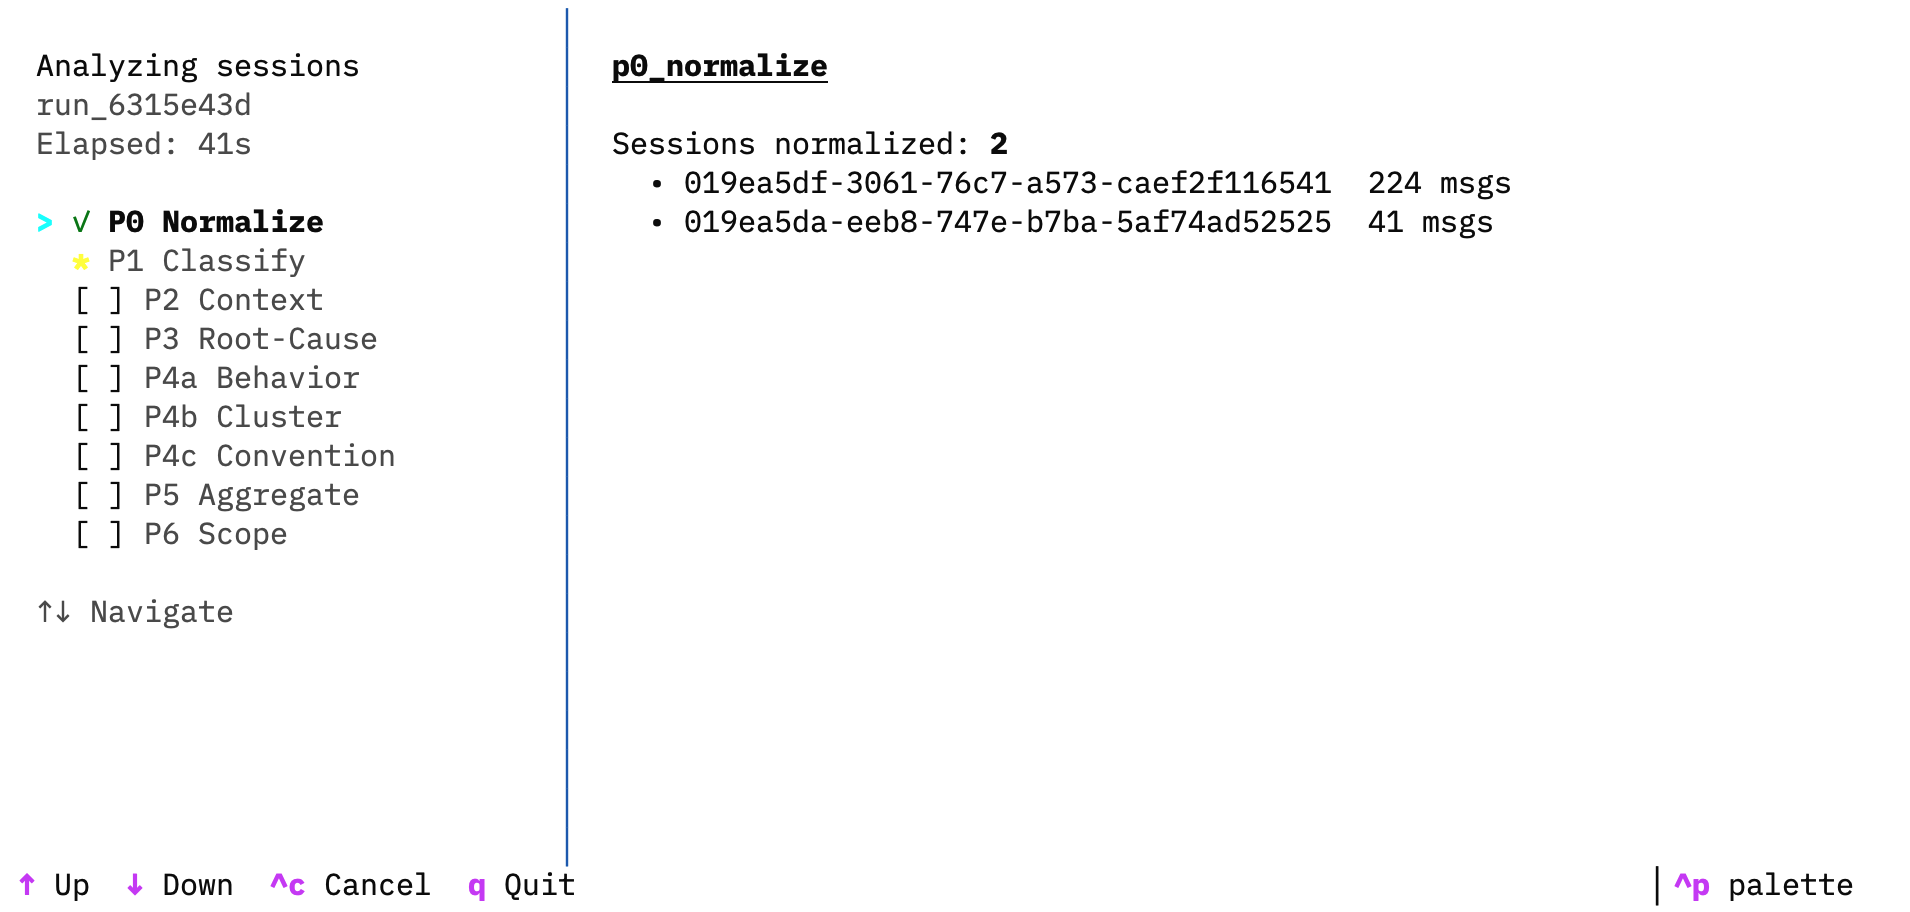
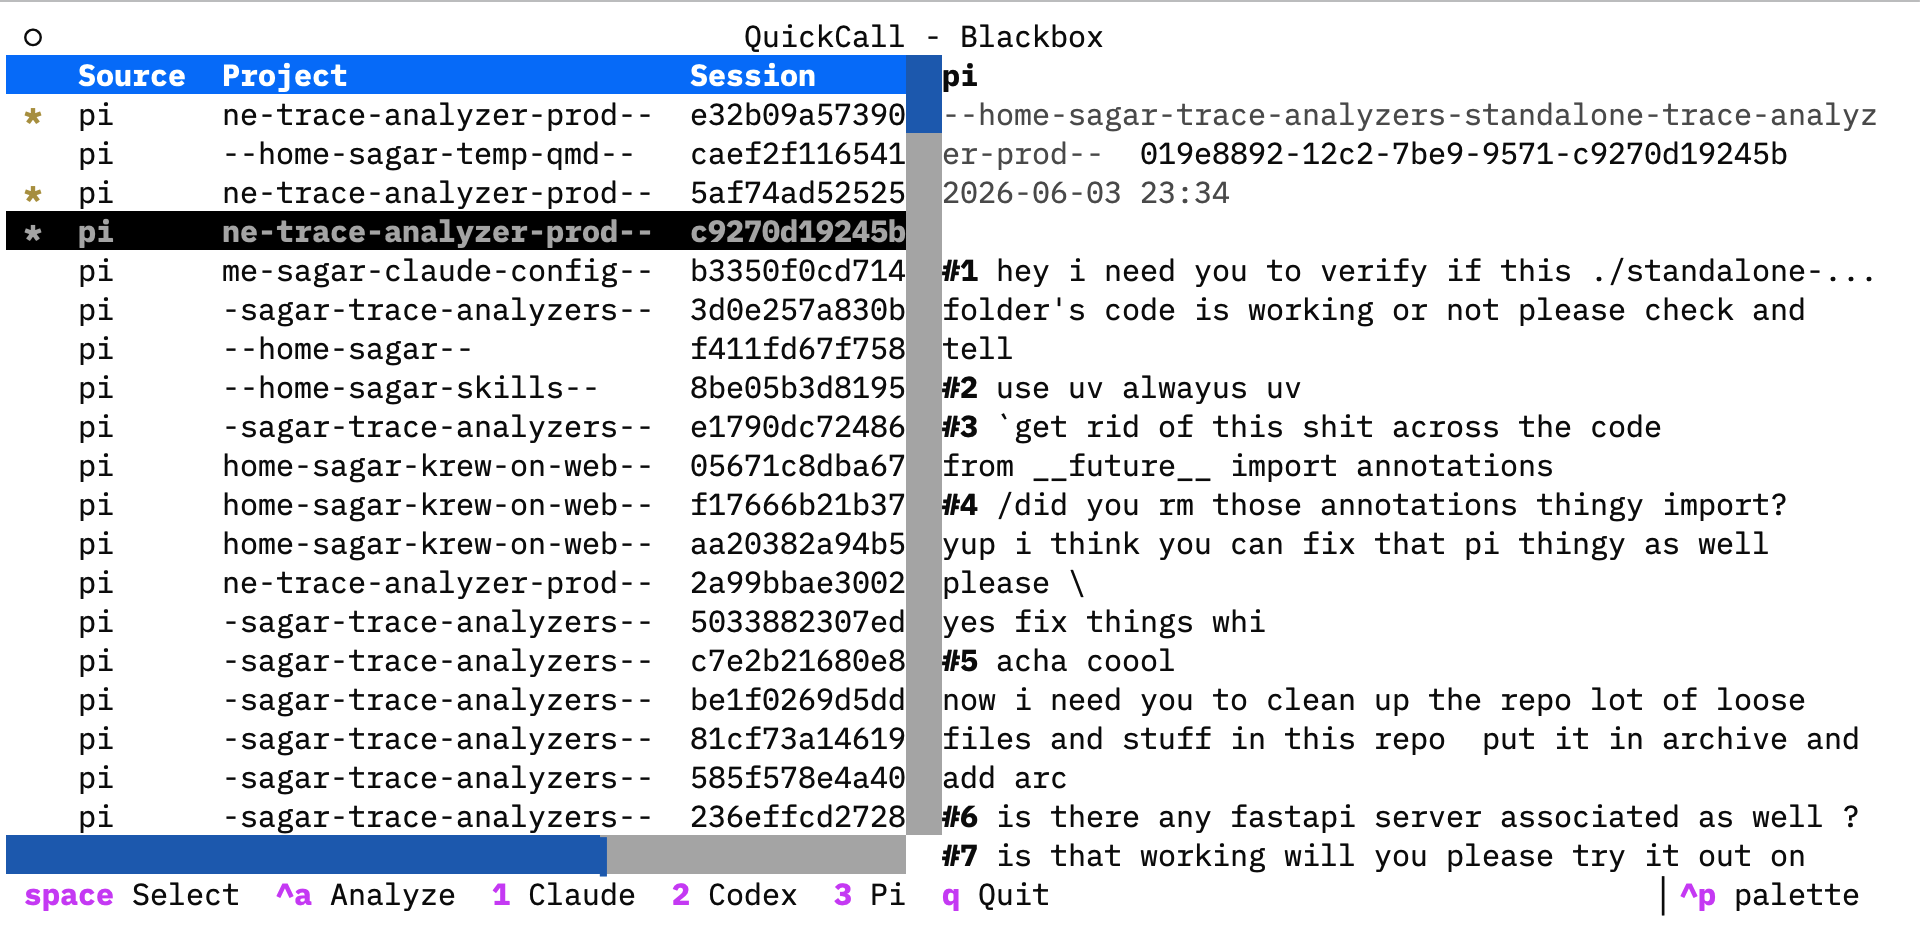
docs: replace session browser screenshot with correct image

Changed region(s): [[0.0, 0.0, 0.9885, 0.9825]]

diff --git a/README.md b/README.md
@@ -5,13 +5,13 @@ Analysis engine for AI coding session traces. Ingests JSONL logs from Claude Cod
 ## Demo
 
 <p align="center">
-  <b>Splash screen</b><br/>
-  <img src="docs/demo-splash.png" alt="Splash screen" width="80%" />
+  <b>Session browser</b><br/>
+  <img src="docs/demo-browser.png" alt="Session browser" width="80%" />
 </p>
 
 <p align="center">
-  <b>Session browser</b><br/>
-  <img src="docs/demo-browser.png" alt="Session browser" width="80%" />
+  <b>Splash screen</b><br/>
+  <img src="docs/demo-splash.png" alt="Splash screen" width="80%" />
 </p>
 
 <p align="center">